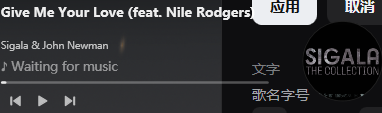
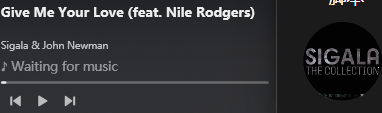
fix(board): one scale, not two
The board computed its layout from Scaled(metrics, s) and then multiplied the box
positions by s again, so every box was drawn at s^2 while the canvas was drawn at s.
The canvas is now sized from the unscaled layout and scaled once when placing modules,
which is exactly how the card works (it lays out at 1:1 and scales via LayoutTransform).

Logged proof for the same template: s=0.670, cardW=580, titleW=320,
canvas=388.6x88.4 DIP -> 486x110 px at 125% DPI, i.e. the same 486x111 px the card
window reports.

Changed region(s): [[0.5759, 0.0, 0.8351, 1.0], [0.8639, 0.0, 1.0, 0.1327], [0.3168, 0.3717, 0.3455, 0.4248]]

diff --git a/src/CardWindow.cs b/src/CardWindow.cs
@@ -434,6 +434,34 @@ namespace Amc
         /// A module's W is a hard cap: real text is clipped to it with an ellipsis, it never widens
         /// the card. Without this the title/lyric runs could push the window wider than the model.
         /// </summary>
+        Canvas _dbg;
+
+        void DrawDebugRects(LayoutResult lay)
+        {
+            if (_dbg == null)
+            {
+                _dbg = new Canvas { IsHitTestVisible = false };
+                Panel root = null;
+                if (_hostTitle != null) root = _hostTitle.Parent as Panel;
+                if (root == null && Content is Panel) root = (Panel)Content;
+                if (root != null) root.Children.Add(_dbg);
+            }
+            _dbg.Children.Clear();
+            foreach (ModuleKind k in new ModuleKind[] { ModuleKind.Title, ModuleKind.Artist, ModuleKind.Lyrics, ModuleKind.Progress, ModuleKind.Cover, ModuleKind.Controls })
+            {
+                ModuleRect r;
+                if (!lay.TryFind(k, out r)) continue;
+                var b = new System.Windows.Shapes.Rectangle
+                {
+                    Width = Math.Max(1.0, r.W), Height = Math.Max(1.0, r.H),
+                    Stroke = k == ModuleKind.Title ? Brushes.Red : k == ModuleKind.Artist ? Brushes.Lime : Brushes.DeepSkyBlue,
+                    StrokeThickness = 1.0
+                };
+                Canvas.SetLeft(b, r.X); Canvas.SetTop(b, r.Y);
+                _dbg.Children.Add(b);
+            }
+        }
+
         int _geoLog;
 
         void LogGeometry(LayoutResult lay)
@@ -445,7 +473,11 @@ namespace Amc
             if (lay.TryFind(ModuleKind.Artist, out rr)) parts += string.Format(" artist={0:F0},{1:F0} {2:F0}x{3:F0}", rr.X, rr.Y, rr.W, rr.H);
             if (lay.TryFind(ModuleKind.Lyrics, out rr)) parts += string.Format(" lyrics={0:F0},{1:F0} {2:F0}x{3:F0}", rr.X, rr.Y, rr.W, rr.H);
             if (lay.TryFind(ModuleKind.Cover, out rr)) parts += string.Format(" cover={0:F0},{1:F0} {2:F0}x{3:F0}", rr.X, rr.Y, rr.W, rr.H);
-            LyricsService.Log(string.Format("geo card={0:F0}x{1:F0}{2}", lay.BoundsW, lay.BoundsH, parts));
+            LyricsService.Log(string.Format("geo content={0:F0}x{1:F0} win={2:F0}x{3:F0} card={4:F0}x{5:F0} scale={6:F2} clear={7}{8}",
+                lay.BoundsW, lay.BoundsH,
+                Width, Height,
+                _card == null ? -1 : _card.ActualWidth, _card == null ? -1 : _card.ActualHeight,
+                _cfg.Scale, _cfg.ClearBg, parts));
         }
 
         void ApplyModuleCaps(LayoutResult lay)
@@ -459,6 +491,9 @@ namespace Amc
                 // Width, not MaxWidth: the box *is* the text box, so the TextBlock has to be told
                 // the exact measure or WPF sizes it against the whole canvas and never trims.
                 if ((_geoLog++ % 15) == 0) LogGeometry(lay);
+                // AMC_DEBUG_RECTS=1 draws the module rects straight on the card, so a screenshot
+                // shows whether the text actually lives where the template says it does.
+                if (Environment.GetEnvironmentVariable("AMC_DEBUG_RECTS") == "1") DrawDebugRects(lay);
                 _boxTitleW = Math.Max(1.0, t.W);
                 _title.Width = Math.Max(1.0, t.W);
                 _title.TextTrimming = TextTrimming.CharacterEllipsis;

diff --git a/src/CardPreview.cs b/src/CardPreview.cs
@@ -144,7 +144,10 @@ namespace Amc
 
             CardMetrics baseMetrics = _card.Metrics();
             double s = _card.ScaleValue;
-            LayoutResult lay = LayoutEngine.Compute(_draft, LayoutEngine.Scaled(baseMetrics, s), true);
+            // The card lays out at 1:1 and multiplies once, via its LayoutTransform. Computing the
+            // board from *scaled* metrics and then multiplying by _s again scaled everything twice,
+            // which is why the board's boxes were smaller than the card's for the same template.
+            LayoutResult lay = LayoutEngine.Compute(_draft, baseMetrics, true);
 
             // Draw the board at the card's own scale, 1:1. Shrinking the board to fit its panel
             // made every comparison a guess ("looks bigger / looks longer"); at 1:1 a box is the
